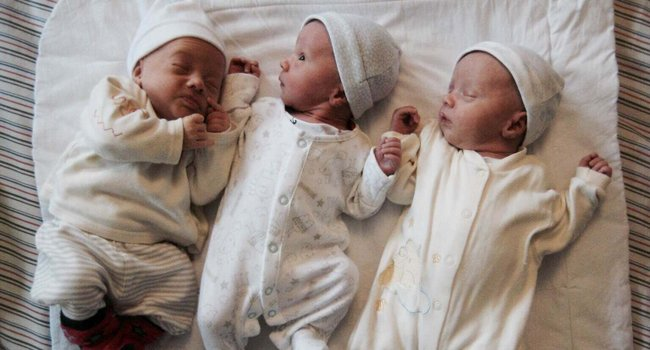
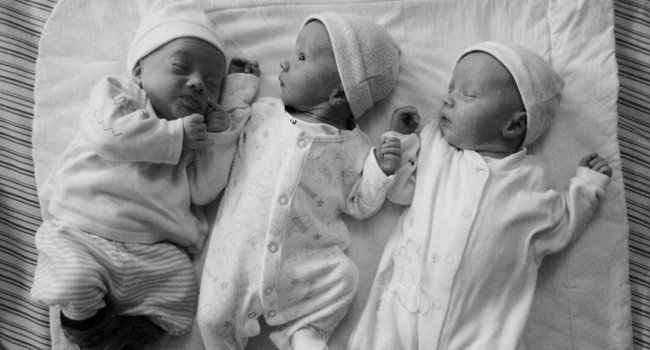
imac

diff --git a/index.html b/index.html
@@ -232,7 +232,7 @@ Dlatego wszyscy zainteresowani utrzymywaniem harmonii, zanim pojawi się jakakol
         <div class="row no-gutter">
             <div class="col-lg-4 col-sm-6">
                 <a href="#/" class="portfolio-box">
-                    <img src="img/portfolio/jutka.JPG" class="img-responsive" alt="">
+                    <img src="img/portfolio/jutkabw.JPG" class="img-responsive" alt="">
                     <div class="portfolio-box-caption">
                         <div class="portfolio-box-caption-content">
                             <div class="project-category text-faded">
@@ -343,13 +343,26 @@ Dlatego wszyscy zainteresowani utrzymywaniem harmonii, zanim pojawi się jakakol
 
             <div class="col-lg-4 col-sm-6">
                 <a href="#/" class="portfolio-box">
-                    <img src="img/portfolio/jutkabw.JPG" class="img-responsive" alt="">
+                    <img src="img/portfolio/ewabw.jpg" class="img-responsive" alt="">
                     <div class="portfolio-box-caption">
                         <div class="portfolio-box-caption-content">
                             <div class="project-category text-faded">
-                                100 znaków
+                                Ewa Weintraub
                             </div>
-                            <div class="project-name">100znakow 100znakow 100znakow 100znakow znakow100 znakow100 znakow100 znakow100 kow100 znakow 100zna</div>
+                            <div class="project-name">Ize spotkalismy na swojej drodze na kilka miesiecy przed rozpoczaciem pierwszego Invitro. Wspolnie z Mezem przygotowywalismy sie z Iza do zabiegu chodzac regularnie na akupunkture, wspomagalismy sie ziolami. Nasza najwieksza radosc Emilka ma dzisiaj pol roku, Iza wspierala nas przez cala ciaze i jesli kiedykolwiek zdecydujemy sie na kolejne dziecko - Iza bedzie jedna z pierszych osob do ktorych sie udamy.</div>
+                        </div>
+                    </div>
+                </a>
+            </div>
+            <div class="col-lg-4 col-sm-6">
+                <a href="#/" class="portfolio-box">
+                    <img src="img/portfolio/aniabw.jpg" class="img-responsive" alt="">
+                    <div class="portfolio-box-caption">
+                        <div class="portfolio-box-caption-content">
+                            <div class="project-category text-faded">
+                                Ania
+                            </div>
+                            <div class="project-name">Czyste uleczenie ze strony fizycznej jak i duchowej. Po każdym "zabiegu" z Iza czuje sie zdecydowanie lepiej boleści kręgosłupa i podenerwowanie znikają.Każda sesja działa kojąco rozluźniająco</div>
                         </div>
                     </div>
                 </a>
